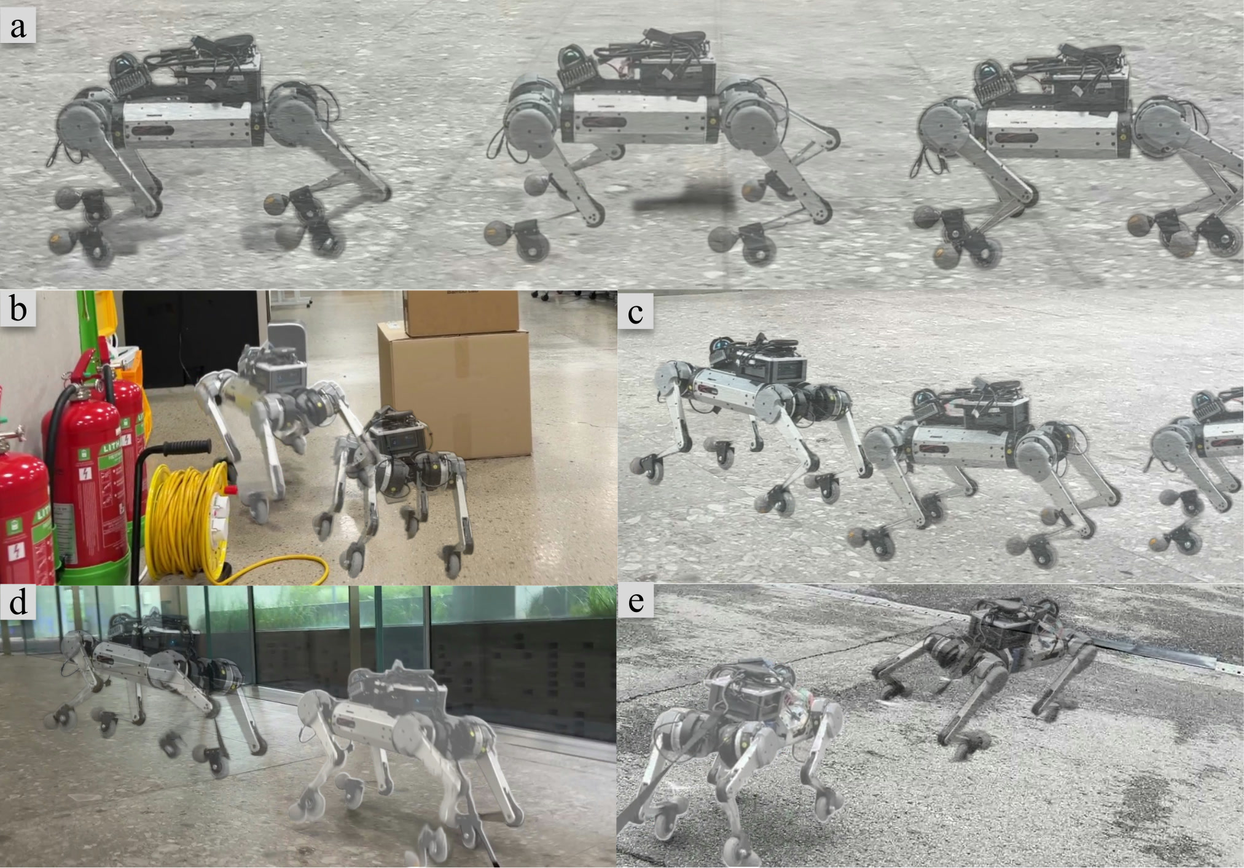
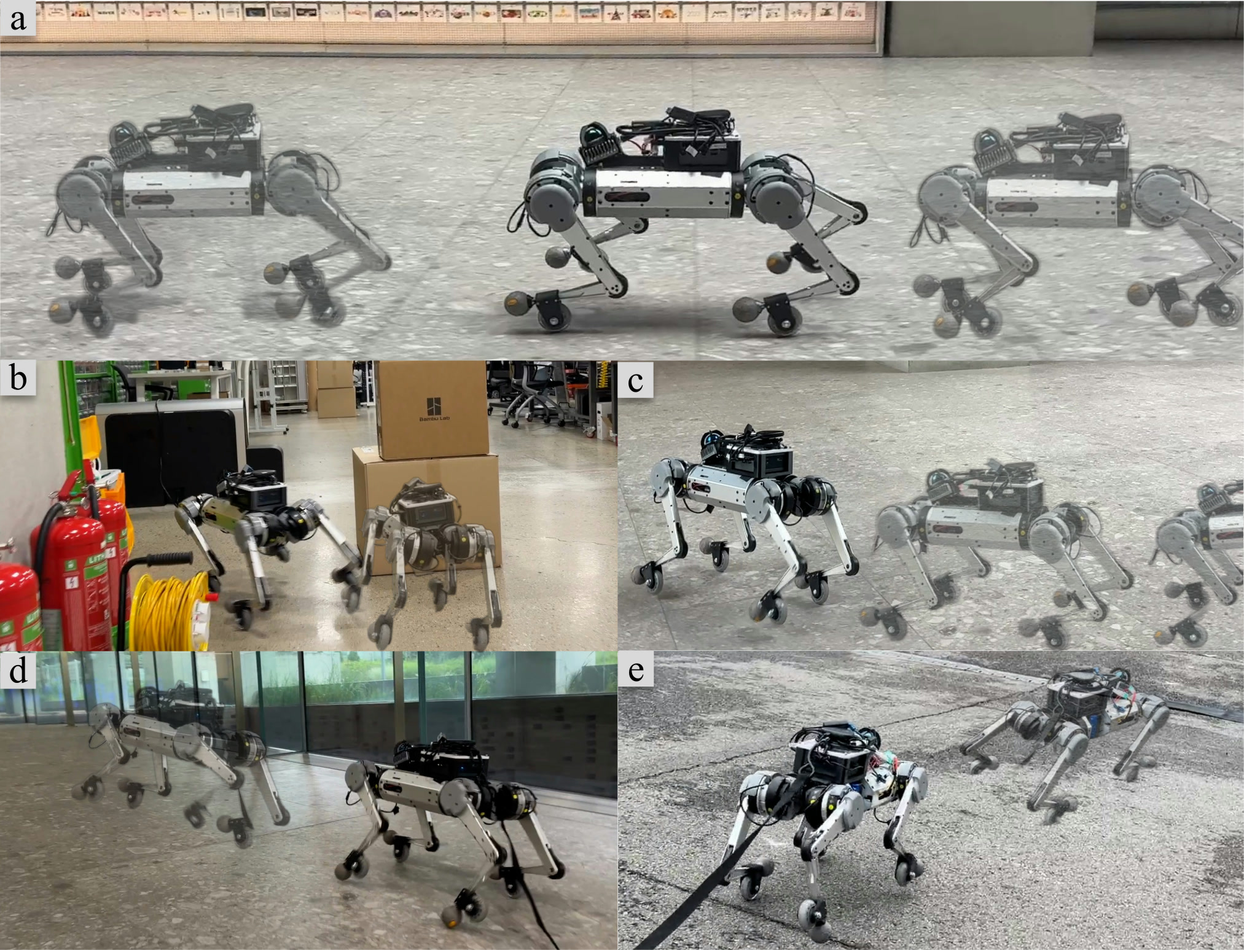
web: hero teaser를 overview v6_no_arrow로 교체
v2 원고는 overview_v8.pdf를 참조하지만 요청에 따라 v6_no_arrow를 쓴다.
패널 구성(a-e)과 장면은 동일하고 v6의 (a)가 더 커서 페이지 비율만
394x275pt → 394x301pt로 달라진다. 캡션은 그대로 적용된다.

370dpi 렌더 후 JPEG q2, 2025x1547px (표시폭 972px의 2배).

diff --git a/DEVELOPING.md b/DEVELOPING.md
@@ -81,7 +81,7 @@ made the first pass blurry. Then JPEG at `-q:v 2` for the photo-heavy ones:
 
 | Figure | Source | dpi | Result |
 |---|---|---|---|
-| `overview.jpg` | `pics/overview/overview_v8.pdf` | 370 | 2025 px |
+| `overview.jpg` | `pics/main_figure/overview_v6_no_arrow.pdf` | 370 | 2025×1547 px |
 | `skating_cycle.png` | `pics/skating_cycle_contact_mode.pdf` | 260 | 2951 px |
 | `terrain.png` | `pics/Terrain.pdf` | 620 | 2041 px |
 | `real_world_result.jpg` | `pics/Realworld/real_world_result_4.pdf` | 300 | 2271 px |
@@ -89,9 +89,13 @@ made the first pass blurry. Then JPEG at `-q:v 2` for the photo-heavy ones:
 | `mechanical_design.jpg` | `pics/Mechanical_Design_4.pdf` | 110 | 2908 px |
 
 ```sh
-pdftocairo -png -r 370 -singlefile ../pics/overview/overview_v8.pdf assets/img/overview
+pdftocairo -png -r 370 -singlefile ../pics/main_figure/overview_v6_no_arrow.pdf assets/img/overview
 ffmpeg -i assets/img/overview.png -q:v 2 assets/img/overview.jpg && rm assets/img/overview.png
 ```
+
+The hero figure uses **`overview_v6_no_arrow.pdf`** by request, not the
+`overview_v8.pdf` that the v2 manuscript references. Same five panels and scenes;
+v6's panel (a) is taller, so the figure is 394×301 pt rather than 394×275 pt.
 
 `skating_cycle` is vector but embeds 4.7 Mpx of photos, so its SVG comes out at 4.6 MB —
 raster is smaller there. Embedding the PDFs directly via `<object>`/`<embed>` was considered
